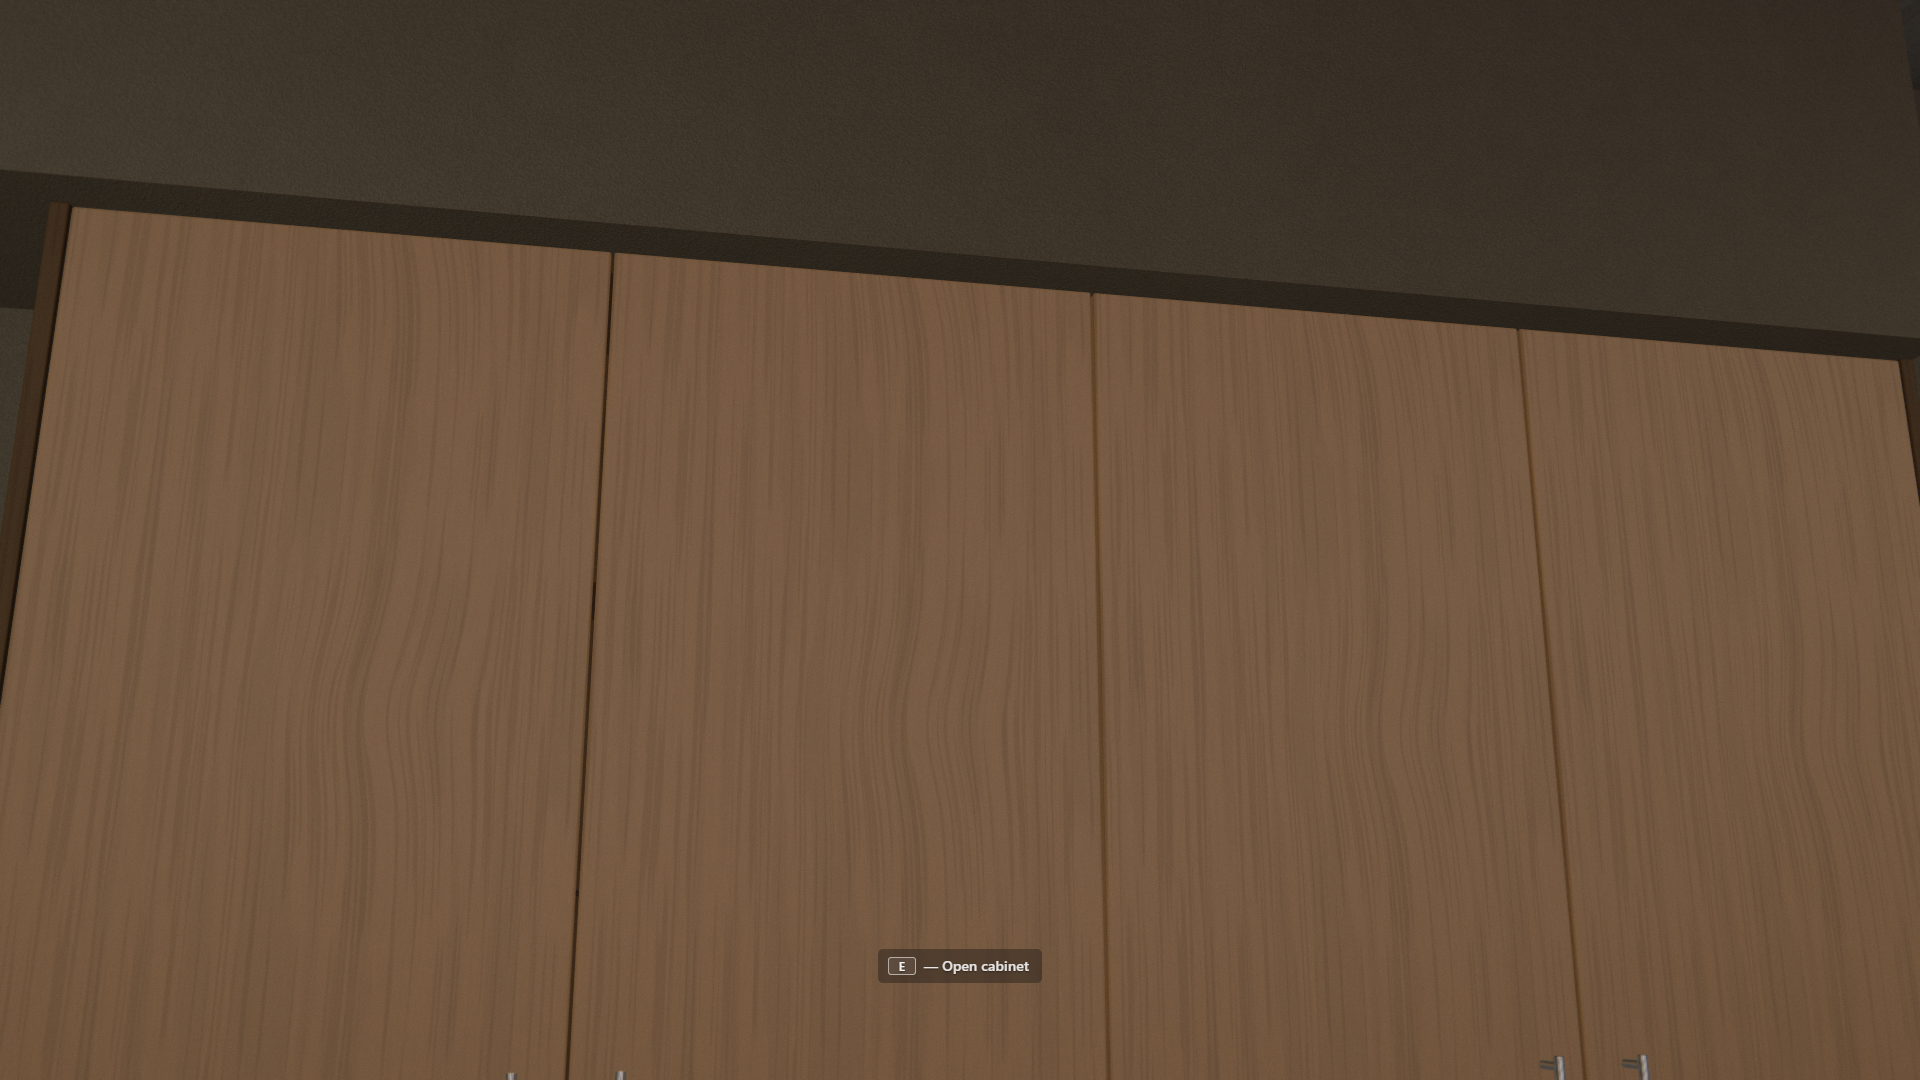
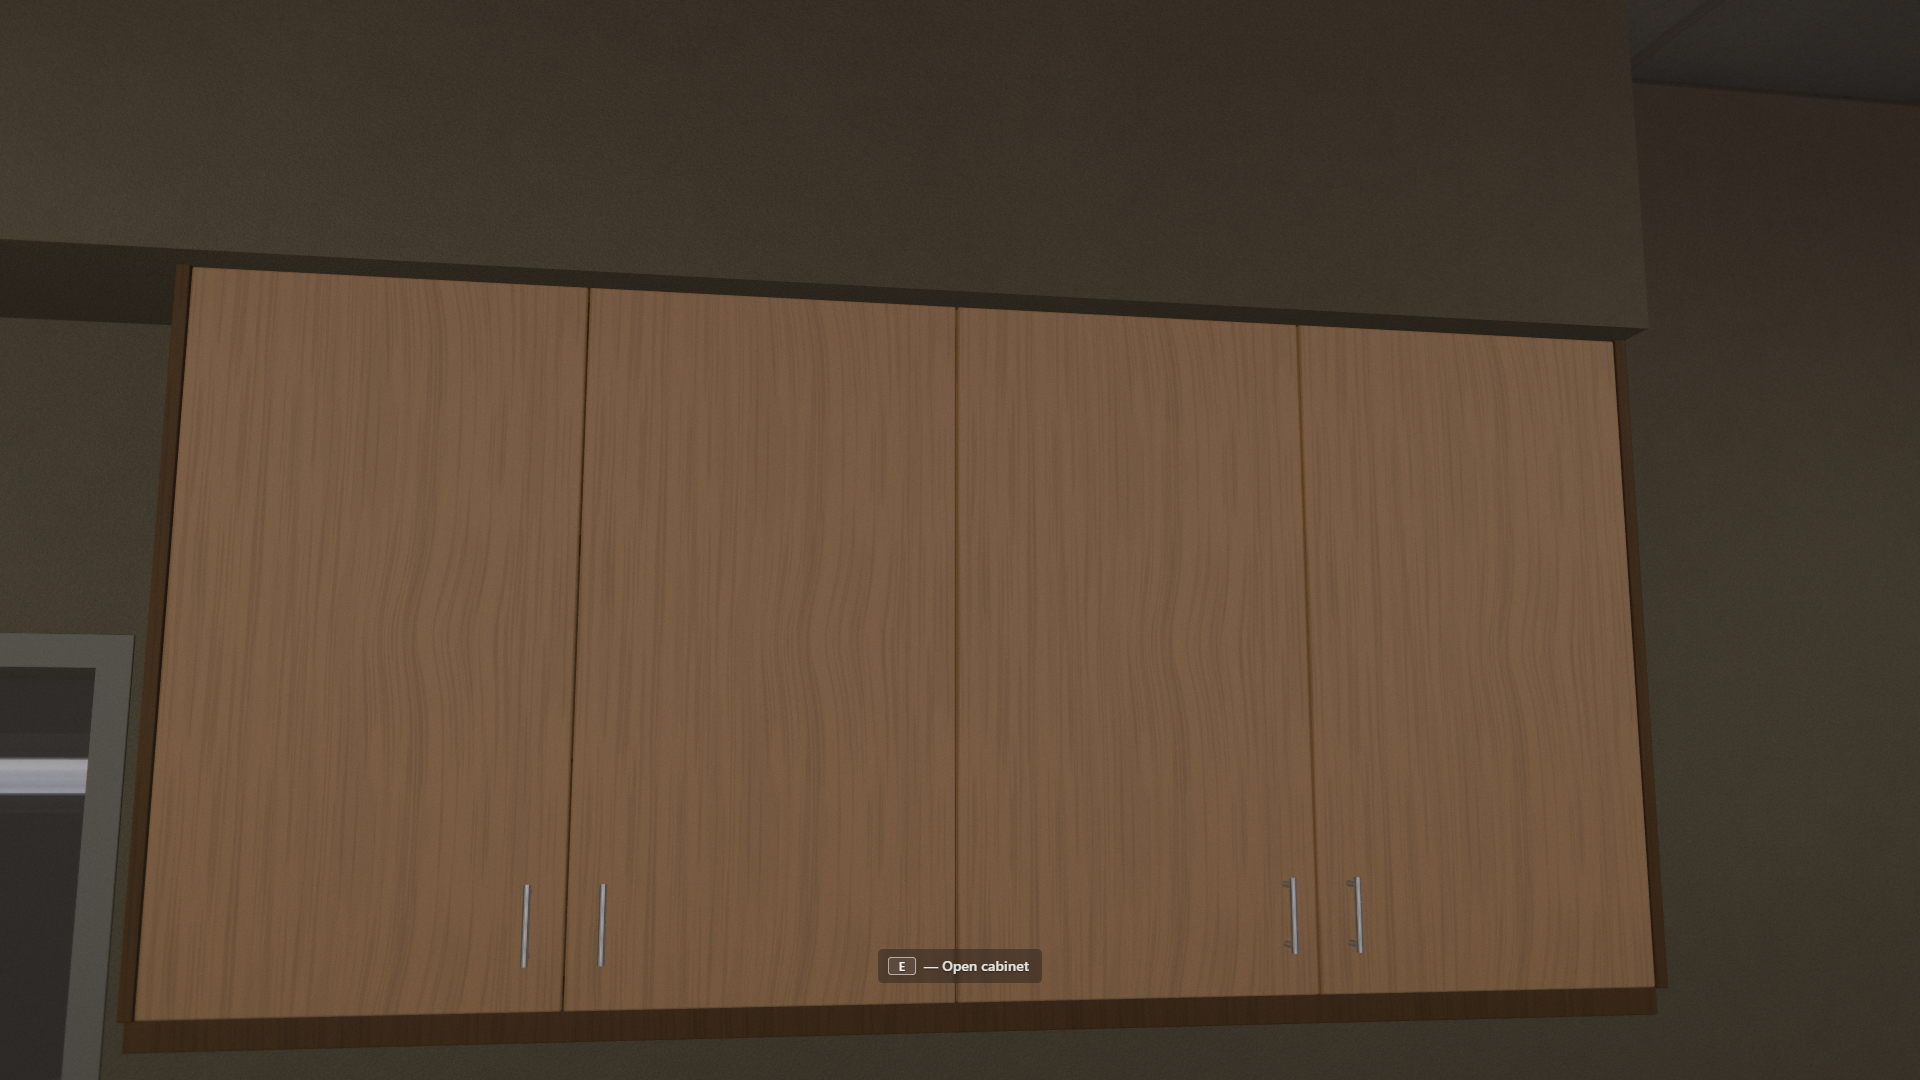
fix-cabinets: BUILD.md entry; final shots

Changed region(s): [[0.0, 0.1528, 1.0, 1.0], [0.6562, 0.825, 0.7188, 0.8861]]

diff --git a/BUILD.md b/BUILD.md
@@ -3124,6 +3124,33 @@ grain and motes). Known residue: Lighting's LOD compensation is baked for k = 2,
 the door handprints frost ~0.8 mip less from outside than inside — invisible at 6 m. If the
 full-size buffer is wanted everywhere instead, that is Lighting's `txScale` (3.4 vs 0.5 ms).
 
+## Fix — "I can't open these cabinets" (`fix-cabinets`, `shots/fix-cabinets-{closed,open-upper,open-lower}.png`)
+
+The user stood under the +x run of upper wall cabinets (four doors, chrome pulls) and got no
+prompt. Cause: System 9 only ever hinged the two under-counter doors (`BACK_BAR.cabinet`);
+the nine upper doors in `CABINETS.runs` were static laminate slabs merged into `Counter.ts`'s
+buckets over a solid dark carcass box — not registered as openables at all. A second, latent
+cause: `CabinetDoorInteraction`'s pick was 1.5 m / 24°, and an upper door's focus is ~1.75 m up,
+1.5–2 m from a standing player's eye in the aisle, so even a registered leaf would have been
+out of reach.
+
+- `Counter.ts` keeps only the runs' end panels, light rail and soffit. `Openables.ts`
+  `buildUpperCabinets` builds each run as an open carcass (top, bottom, back, a partition every
+  two doors, two shelves) into the static buckets, stocks each bay from four variants (stacked
+  plates, nested bowls, glass tumblers, mugs with handles, cereal / tea / sugar boxes with
+  faded atlas `label` / `canLabel` bands, a paper towel roll) and hinges the doors:
+  `leafGeometry` (shared slab + wire pull + two Euro cups, vertex-alpha chrome) at alternating
+  edges so the pulls pair; ONE baked mesh for all nine (`bakedLeaves`, factored out of the
+  under-counter pair). Names `upper-cabinet-<run>-<k>` (run 0 = -x, five doors; run 1 = +x, four).
+- The under-counter bay gains a saucepan with its lid and a bag of flour (the brief's "lower"
+  stock; the saucers, towel roll, filter box and spray bottle stay).
+- `interactions/Openables.ts`: the pick is a constructor option; upper doors 2.2 m / 28°.
+  `index.ts`: `upperCabinets: CabinetDoorInteraction[]` updated and settle-checked with the pair
+  (shadow-once). `debug.ts`: `__interact("upper-cabinet-<run>-<k>", t?)`, `__interact("upper-cabinets", t?)`
+  (all nine), poses `cabinets-{closed,open-upper,open-lower}` (also in `shoot.mjs`).
+- Draw calls: ready 187 (the door mesh +1; the stock rides the existing ceramic / glassClear /
+  napkin / stainless / atlas buckets). All eleven cabinet doors toggle with the cabinet catch cue.
+
 ## System status
 
 | # | System | Status |
